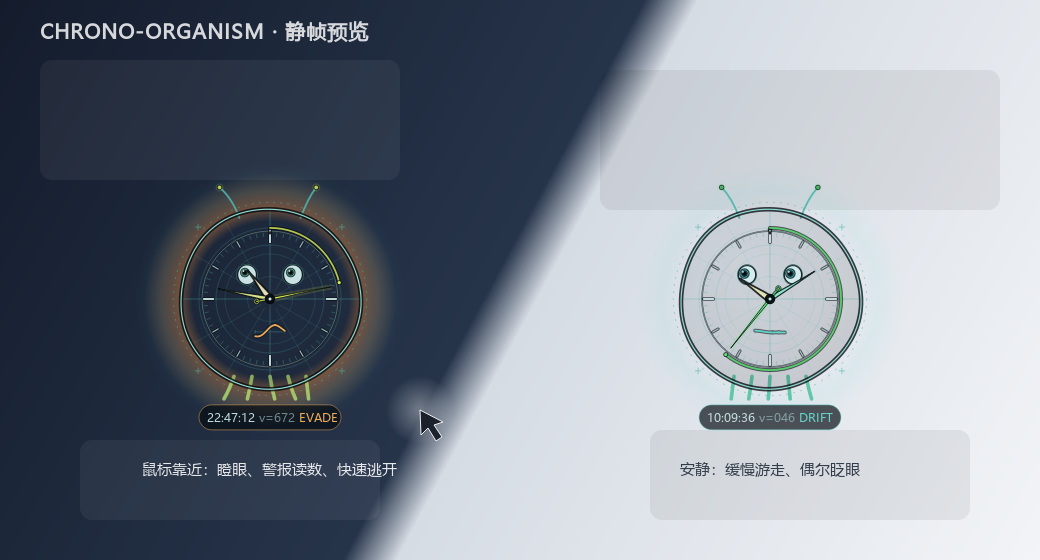
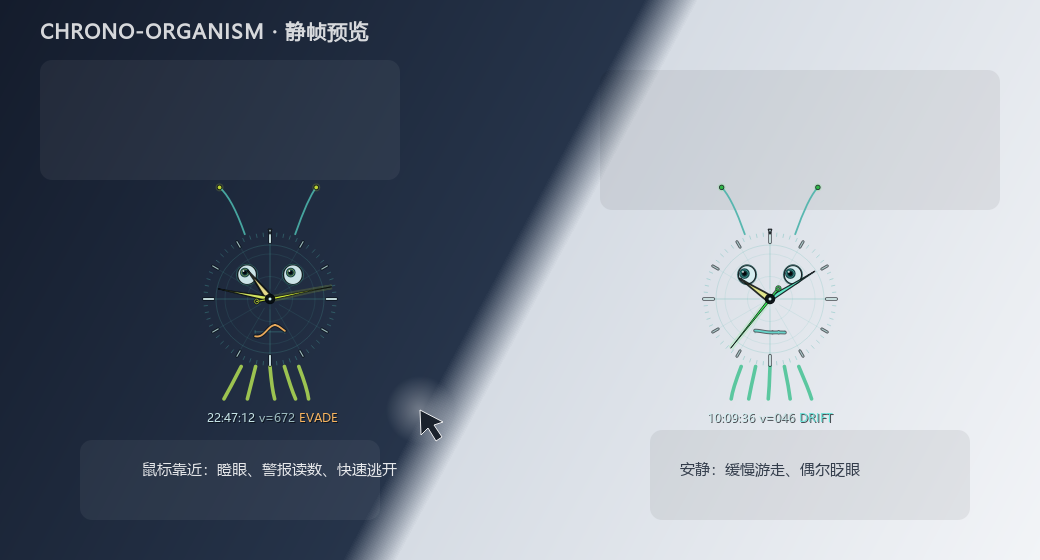
tweak: 去掉边框与全部填充，改为无框全透明
移除机身/度盘边框与填充、虚线围栏、秒进度弧、警报环和读数底板；指针加深色描边并提高饱和度；读数行改为阴影文字；新增 GLASS_*/DIAL_ALPHA/READOUT_ALPHA 开关；同步预览与基准。

Changed region(s): [[0.1231, 0.3036, 0.3692, 0.7893], [0.6462, 0.3643, 0.8308, 0.7893], [0.2462, 0.5161, 0.2769, 0.5464]]

diff --git a/README.md b/README.md
@@ -4,10 +4,9 @@
 会自己在屏幕里缓慢游走，鼠标靠近时惊慌逃开。三根指针的颜色由它们各自指向的
 时刻决定，随时间连续变化。
 
-单文件 PySide6 实现，视觉走科研仪器 / 技术图纸风格：透明观测窗、极坐标网格、
-60 格细分度盘、虚线围栏、定位十字、单色遥测读数条，以及一条随情绪变化的
-示波器式「嘴」。机身和度盘只保留 alpha 18/36 与 4 的淡玻璃底，桌面从盘面透出；
-指针、眼睛和刻度用「深色描边 + 亮色芯」，因此浅色壁纸下仍然清楚。
+单文件 PySide6 实现，视觉走科研仪器 / 技术图纸风格：没有机身/度盘边框，也没有
+底板填充（alpha 0），只有 60 格刻度、极淡的极坐标网格、指针、眼睛、波形嘴和
+无底板的单色遥测读数。指针、眼睛和刻度用「深色描边 + 亮色芯」，因此浅色壁纸下仍然清楚。
 
 ![静帧预览](docs/preview.png)
 
@@ -31,8 +30,8 @@ python clock_creature.py
 ### 透明、置顶、不干扰
 
 - `FramelessWindowHint` + `WA_TranslucentBackground`：没有矩形窗口底，只画生物本身；
-- 盘面内部同样透明：机身/度盘只有 alpha 18/36 与 4 的淡玻璃底，桌面从盘面透出；
-  靠深色描边和亮色芯保证指针、眼睛、刻度在浅色壁纸上也能读；
+- 盘面完全透明：没有机身/度盘边框，填充 alpha = 0；只靠刻度、深色描边和亮色芯
+  保证指针、眼睛在浅色壁纸上也能读；
 - Windows 扩展样式补上 `WS_EX_LAYERED | WS_EX_TRANSPARENT | WS_EX_TOOLWINDOW |
   WS_EX_NOACTIVATE`：**点击穿透**、不进任务栏 / Alt+Tab、不抢输入焦点；
 - `WindowStaysOnTopHint`：浮在普通窗口上方（独占全屏游戏除外）；
@@ -45,7 +44,7 @@ python clock_creature.py
 | 行为 | 规则 | 1440 px 宽屏上的值 |
 |---|---|---|
 | 巡航 | `0.028 W × (0.62 ~ 1.0)` px/s | 25 ~ 40 px/s |
-| 30 秒路程 | 巡航上限 `0.84 W` | ≤ 1210 px（实测 650 ~ 770 px） |
+| 30 秒路程 | 巡航上限 `0.84 W` | ≤ 1210 px（实测 650 ~ 830 px） |
 | 逃跑 | `0.42 W`，夹在 400 ~ 1250 px/s | ~605 px/s |
 | 警觉半径 | `2.2 R + max(70, 0.08 W)` | ~310 px |
 
@@ -62,7 +61,7 @@ python clock_creature.py
 | 分针 | `190° → 35°`，随 `minute/60` | 1 小时 |
 | 秒针 | `35° → 190°`，随 `sec/60` | 1 分钟 |
 
-外圈还有一段秒进度弧，颜色与秒针同步，方便一眼看出「现在几点几分几秒」。
+秒数由秒针和底部读数行提供；外圈不再保留进度弧，避免形成一圈边框。
 
 ### 「活着」的细节
 
@@ -72,17 +71,18 @@ python clock_creature.py
 - 顶部两根传感器触须、底部五条纤毛持续摆动，逃跑时摆得更急；
 - 秒针每秒有一次很小的回弹，中心轴、针尖有独立的小圆点；
 - 身体有 1% 表盘半径的上下浮动和受惊时的轻微颤动；
-- 底部读数条实时显示 `HH:MM:SS  v=速度  DRIFT / EVADE / HOLD`。
+- 底部读数行实时显示 `HH:MM:SS  v=速度  DRIFT / EVADE / HOLD`。
 
 ## 科研风格的设计取舍
 
-- **透明的观测窗**：去掉原来的深色底板，机身填充 alpha 18~36、度盘 alpha 4，
-  只留一层很淡的玻璃底；靠深色描边、亮色芯和双层刻度保持可读性，而不是靠不透明底板；
-- **信息密度代替装饰**：极坐标网格、虚线围栏、四角定位十字、60 格刻度、12 点定位
-  缺口，都是「测量」而不是「卡通」元素；
-- **单色系 + 一个警示色**：主体是冷青/冰白，只有受惊时出现琥珀色读数、外圈警报环
-  和波形，颜色本身携带状态信息；
-- **读数条**用等宽字体（Consolas），把时间、实时速度、行为模式并排显示，像仪器遥测；
+- **无边框的观测窗**：机身/度盘边框和填充全部去掉（alpha 0），只留刻度、内部淡网格
+  和指针；靠深色描边、亮色芯保持可读性，视线自然落在时间和表情上；
+- **信息密度代替装饰**：极坐标网格、60 格刻度、12 点定位缺口，都是「测量」
+  而不是「卡通」元素；去掉了围栏与定位十字，避免它们抢时间；
+- **单色系 + 一个警示色**：主体是冷青/冰白，只有受惊时出现琥珀色读数和波形，
+  颜色本身携带状态信息；
+- **读数行**用等宽字体（Consolas），无底板、带深色阴影；把时间、实时速度、行为模式
+  并排显示，像仪器遥测；
 - **眼睛做成光学孔径**：细镜筒外圈 + 深色虹膜 + 小高光，保留生物感但不卖萌；
 - **嘴换成信号波形**：平静时接近一条直线，受惊时变成高幅高频的抖动波形，比画一个
   「O 形嘴」更符合仪器主题，也仍然能表达情绪。
@@ -98,16 +98,16 @@ python tools/bench_runtime.py --seconds 6
 
 | 指标 | 实测 | 说明 |
 |---|---|---|
-| 帧率 | 23.8 fps 巡航；逃跑时切 60 fps | 加粗描边后把巡航帧率从 30 降到 24 |
-| 单帧绘制 | 4.3 ~ 4.9 ms | 包含指针、眼睛、波形、读数条 |
-| 单核 CPU | 16 ~ 17% | 8 核机器上约占整机 2% |
-| 工作集 | 59.9 → 60.0 MB（6 秒） | 峰值 60.0 MB |
-| 私有字节 | 27.3 → 27.3 MB | 运行期无增长 |
+| 帧率 | 23.9 fps 巡航；逃跑时切 60 fps | 加粗描边后把巡航帧率从 30 降到 24 |
+| 单帧绘制 | 3.2 ~ 3.4 ms | 包含指针、眼睛、波形、读数行 |
+| 单核 CPU | 12 ~ 13% | 8 核机器上约占整机 2% |
+| 工作集 | 58.8 → 59.2 MB（6 秒） | 峰值 59.2 MB |
+| 私有字节 | 26.4 → 26.5 MB | 运行期无增长 |
 
 内存说明：
 
 - 60 MB 工作集主要是 **PySide6/Qt 运行时本身**，不是动画缓存；
-- 本程序自己的位图缓存只有静态外壳 + 惊慌光晕两张，200% 缩放下合计约 1.2 MB；
+- 本程序自己的位图缓存只有一张静态刻度/网格层，200% 缩放下约 0.65 MB；
 - 缓存只在启动/窗口尺寸变化时重建（基准里 `builds=1`），每帧不会新建大对象，
   也没有持续增长的列表或历史帧。
 
@@ -119,13 +119,13 @@ python tools/bench_runtime.py --seconds 6
 
 旧版 60 fps 全量重绘时单核约 47%。现在：
 
-1. 光晕、外壳、极坐标网格、度盘、刻度全部**只画一次**，缓存成 `QPixmap`；
-2. 每帧只画指针、眼睛、波形嘴、触须/纤毛、读数条；
+1. 内部网格、内圈、60 格刻度只画一次，缓存成 `QPixmap`；
+2. 每帧只画指针、眼睛、波形嘴、触须/纤毛、读数行；
 3. 巡航 24 fps，只有 `panic > 0.15` 的短暂逃跑期切到 60 fps；
 4. 速度/尺寸都用屏幕宽度归一化，不随分辨率反复分配资源。
 
-加粗指针和双层描边让单帧多花约 1 ms，所以巡航从 30 fps 降到 24 fps，
-把单核占用压回 16% 左右；逃跑仍是 60 fps，不影响「快速远离」的手感。
+加粗指针和双层描边增加约 1 ms，去掉外圈秒弧又省回约 0.6 ms；
+巡航维持 24 fps（约 12~13% 单核），逃跑仍是 60 fps。
 
 ## 实现要点
 
@@ -149,9 +149,9 @@ python tools/bench_runtime.py --seconds 6
 | `FLEE_MAX` | `1250` | 逃跑速度上限（px/s） |
 | `FLEE_ZONE_R` / `FLEE_ZONE_SCREEN` | `2.2` / `0.08` | 警觉半径 |
 | `DIAMETER_FRACTION` | `0.13` | 表盘直径 / 屏幕短边 |
-| `GLASS_CENTER_ALPHA` / `GLASS_EDGE_ALPHA` | `18` / `36` | 机身玻璃底透明度，0 = 完全透明 |
-| `DIAL_ALPHA` | `4` | 度盘填充透明度 |
-| `READOUT_ALPHA` | `175` | 读数条底板透明度 |
+| `GLASS_CENTER_ALPHA` / `GLASS_EDGE_ALPHA` | `0` / `0` | 机身玻璃底透明度；默认完全透明 |
+| `DIAL_ALPHA` | `0` | 度盘填充透明度；默认完全透明 |
+| `READOUT_ALPHA` | `0` | 读数行底板透明度；0 = 只剩带阴影的文字 |
 | `CALM_FRAME_MS` / `PANIC_FRAME_MS` | `42` / `16` | 巡航 / 逃跑帧间隔 |
 
 ## 文件
@@ -173,8 +173,10 @@ Clock/
 - 托盘图标是唯一的退出入口；若系统托盘被禁用，需在终端 Ctrl+C；
 - 不记忆位置、不自动开机启动、没有设置界面（参数在源码顶部）；
 - 只在启动时所在的那块屏幕活动，不会跨显示器；
-- 把 `GLASS_CENTER_ALPHA` / `GLASS_EDGE_ALPHA` / `DIAL_ALPHA` 设为 0 可获得完全透明
-  的盘面；代价是浅色或花壁纸下细刻度会变淡，默认保留很淡的玻璃底；
+- 机身/度盘默认就是完全透明（alpha 0）；若在浅色或花壁纸上觉得细刻度太淡，可把
+  `GLASS_CENTER_ALPHA` / `GLASS_EDGE_ALPHA` 调到 18/36、`DIAL_ALPHA` 调到 4；
+- 读数行默认无底板，用深色阴影 + 亮字保证可读；需要更稳的对比度时把
+  `READOUT_ALPHA` 调到 140，会恢复一块很淡的小底板；
 - 独占全屏游戏 / 某些全屏应用会盖住置顶窗口；
 - 表盘是鼠标穿透的，无法拖动；需要移动请用托盘「回到屏幕中央」再等它游走。
 
